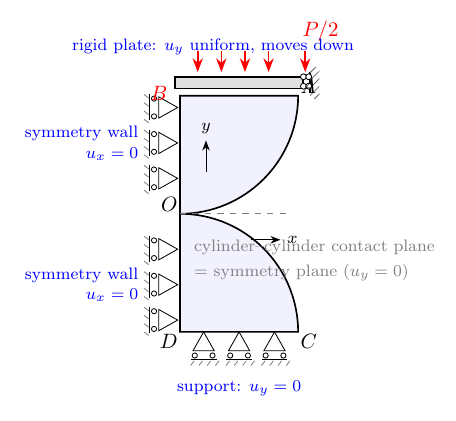
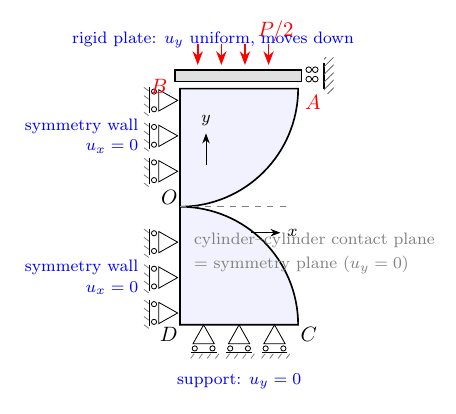
docs: show node A label and declutter the plate guide rollers

diff --git a/benchmarks/solid-body-contact/setup.tex b/benchmarks/solid-body-contact/setup.tex
@@ -60,20 +60,19 @@
   % ================= rigid plate above AB (uniform u_y, moves down) ====
   % no ground hatching: the plate MOVES down (prescribed u_y ramp),
   % guided horizontally by rollers sliding on vertical walls at both ends
-  \draw[thick, fill=black!12] (-0.04, 1.06) rectangle (1.04, 1.16);
+  \draw[thick, fill=black!12] (-0.04, 1.06) rectangle (1.03, 1.16);
   % vertical guide at the right end of the plate (vertical slide, no hatch)
-  \draw[thick] (1.10, 1.02) -- (1.10, 1.2);
+  \draw[thick] (1.22, 1.0) -- (1.22, 1.22);
   \fill[pattern={Lines[angle=45, distance=2.6pt]}, pattern color=black!60]
-    (1.10, 0.98) rectangle (1.18, 1.24);
+    (1.22, 0.96) rectangle (1.3, 1.26);
   \foreach \y in {1.08, 1.16} {
-    \draw[fill=white] (1.045, \y) circle (0.025);
-    \draw[fill=white] (1.09, \y) circle (0.025);
+    \draw[fill=white] (1.09, \y) circle (0.024);
+    \draw[fill=white] (1.145, \y) circle (0.024);
   }
   \foreach \x in {0.15, 0.35, 0.55, 0.75} {
     \draw[red, thick, ->] (\x, 1.38) -- (\x, 1.20);
   }
-  \draw[red, thick, ->] (1.06, 1.38) -- (1.06, 1.2);
-  \node[above right, red, inner sep=2pt] at (1.0, 1.42) {$P/2$};
+  \node[above right, red, inner sep=2pt] at (0.62, 1.36) {$P/2$};
   \node[above, blue, inner sep=4pt] at (0.28, 1.27)
     {\footnotesize rigid plate: $u_y$ uniform, moves down};
 
@@ -85,7 +84,7 @@
 
   % ================= node labels =================
   \node[left, red, inner sep=3pt] at (-0.05, 1.02) {$B$};
-  \node[above right, inner sep=1pt] at (A) {$A$};
+  \node[below right, red, inner sep=2pt] at (1.02, 0.98) {$A$};
   \node[below right, inner sep=1pt] at (C) {$C$};
   \node[below left, inner sep=1pt] at (D) {$D$};
   \node[above left, inner sep=1pt] at (O) {$O$};
